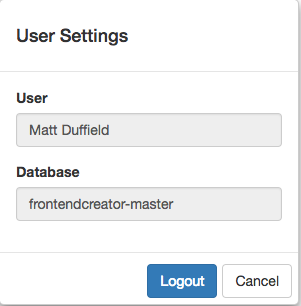
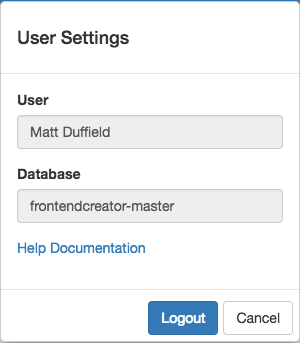
Updated documentation to reflect UI changes.

diff --git a/Home.md b/Home.md
@@ -2,7 +2,7 @@
 
 Building applications with Aurelia has never been so much fun and the **FrontEnd Creator** makes it even more enjoyable. The tool allows you to group your applications into projects. Within each project you have multiple screens. You are able to drag and drop standard HTML elements as well as custom elements onto the designer surface. You can then configure properties of a selected element using the dynamic property grid. 
 
-![Designer](images/designer-home.png)
+![Designer](wiki/images/designer-home.png)
 
 Everything is saved as JSON and you have the ability to live preview your changes immediately as well as share links for a given screen with co-workers or clients so that they can interact with your design.
 
@@ -10,29 +10,25 @@ Everything is saved as JSON and you have the ability to live preview your change
 
 The following animation shows how little work it takes to rapidly create a screen and preview it live using **FrontEnd Creator**:
 
-![Designer Animation](images/frontendcreator.gif)
+![Designer Animation](wiki/images/frontendcreator.gif)
 
-You also have the ability to edit the HTML directly and see the changes reflected in the designer tab. Finally, you have the ability to preview your changes everytime you save your work or by launching a separate tab and viewing  your changes alone.
+You also have the ability to edit the HTML directly and see the changes reflected in the designer tab. Finally, you have the ability to preview your changes every time you save your work or by launching a separate tab and viewing  your changes alone.
 
-![Designer Animation](images/frontendcreator-html.gif)
+![Designer Animation](wiki/images/frontendcreator-html.gif)
 
-Currently, FrontEnd Creator supports Twitter Bootstrap 3 for building responsive applications. Support for other frameworks will follow. It also targets Aurelia for markup and databinding but it will be possible to use other targets such as Angular as well.
+## Extensibility
 
-The FrontEnd Creator has been built with extensibility in mind from the ground up. Everything in this application was built using the rendering engine. In fact all screens that make up FrontEnd Creator use the rendering engine as well.
+Currently, **FrontEnd Creator** supports Twitter Bootstrap 3 for building responsive applications. Support for other frameworks will follow. It also targets Aurelia for markup and data-binding but it will be possible to use other targets such as Angular as well.
 
-Take a look at the table of contents to learn more:
+The **FrontEnd Creator** has been built with extensibility in mind from the ground up. Everything in this application was built using the rendering engine. In fact all screens that make up **FrontEnd Creator** use the rendering engine as well.
 
-## Table of Contents
-* [ Login ](login.md)
-* [ Projects ](projects.md)
-* [ Screens ](screens.md)
-* [ Designer ](designer.md)
-* [ Preview ](preview.md)
-* [ Classes, Attributes, and Styles ](classes-attributes-styles.md)
-* [ Data Binding ](data-bind.md)
-* [ DataForm ](data-form.md)
-* [ Composition ](composition.md)
-* [ Notification ](notification.md)
-* [ Custom Elements ](custom-elements.md)
+## Next steps
 
+Currently, **FrontEnd Creator** is in a *closed alpha*. If you are interested in participating and providing feedback, please contact: <support@frontendcreator.com>
+
+Space is limited but you will have full access to the application.
+
+We are striving to make this a first class solution for building web applications.
+
+[ www.frontendcreator.com ](http://www.frontendcreator.com)
 

diff --git a/designer.md b/designer.md
@@ -27,7 +27,7 @@ Here are the capabilities of the header:
 * **Save button** - this will allow you to save your current work.
 * **Preview button** - this will allow you to launch a new browser tab and preview your work. Remember to save so that your changes will be reflected!
 * **Export button** - this will allow you to export the screen as a view (.html) and view-model (.js) file for you to play with outside the tool.
-* **User button** - this will allow you to logout and see the database you are currently connected to.
+* **User button** - this will allow you to logout and see the database you are currently connected to. It also provides a link to help documentation.
 
 ![Designer User Settings dialog](images/designer-user-settings.png)
 
@@ -54,19 +54,35 @@ The following animation shows how you can use the toolbox as well as filter its 
 
 ![Designer toolbox](images/designer-toolbox-filtering.gif)
 
+As you saw in the animation, the search input uses partial name matching as well as tags. The following is a list of existing tags that controls are grouped by:
+
+* flow
+* form
+* image
+* inline
+* input
+* list
+* media
+* phrase
+* sectioning
+* table
+* text
+ 
 To add an element on to the designer surface, simply click and drag the element from the toolbox onto the designer surface.
 
 ![Designer toolbox](images/designer-drag-drop.gif)
 
 ### Components
 
-The components provides a list of all of the screens that you have authored for this project. This list is exactly the same as the list on the Project Screens screen. It is available here to allow you to compose hybrid screens by adding them to the designer surface. This promotes component reuse and allows you to mitigate redundancies as much as possible.
+The components provides a list of all of the screens that you have authored for this project. This list is exactly the same as the list on the Project Screens screen. It is available here to allow you to compose hybrid screens by adding them to the designer surface. This promotes component reuse and allows you to mitigate redundancies as much as possible. Also, notice that the icon selected when creating the screen will show up here as well.
 
 The following is a screen shot of the components tab:
 
 ![Designer components](images/designer-components.png)
 
-To add a component on to the designer surface, simply click on the plus (+) button.
+To add a component on to the designer surface, simply click and drag the element from the components tab onto the designer surface.
+
+![Designer toolbox](images/designer-components-drag-drop.gif)
 
 ## Right Dock Pane
 
@@ -99,7 +115,7 @@ The screen name is an important property. **FrontEnd Creator** will use it as th
 
 The preview tab allows you to preview your changes live as you work on the designer surface or the HTML tab.
 
-The following is a screen shot of the designer surface after adding a form, form-group, label, and input control:
+The following is a screen shot of the designer surface after adding a form, form-group, label, input element, and button:
 
 ![Designer surface](images/designer-surface.png)
 
@@ -182,4 +198,4 @@ The following is a screen shot of the schema tab:
 
 There will be a whole section dedicated to schema and how to use it in a data-form.
 
-[ <- Previous ](screens.md) | [ Home ](Home.md) | [ Next -> ](preview.md)
+[ <- Previous ](screens) | [ Home ](home) | [ Next -> ](preview)

diff --git a/screens.md b/screens.md
@@ -10,11 +10,11 @@ The following is a screen shot of the add/edit dialog that is displayed when you
 
 ![Add/Edit Screen](images/screen-add-edit.png)
 
-Every screen has a screen name, description, and flag asking whether this is a Data Form. The checkbox allows you to quickly scaffold admin screens by walking the data provided. It also provides for validation and several settings on how to control validation as well as showing a validation summary.
+Every screen has a screen name, description, flag asking whether this is a Data Form, and a screen icon. The icon is used on the designer. Currently the icons you can select from are from FontAwesome. When you select the Data Form checkbox, it allows you to quickly scaffold admin screens by creating a form with inputs corresponding to the data provided. It also provides for validation and several settings on how to control validation as well as showing a validation summary.
 
 ### Note
 The screen name is an important property. **FrontEnd Creator** will use it as the dynamic route when you preview your work. Therefore, it is important to be sure that you have a valid name entry. It is best not to put any spaces or special characters in the name.
 
 Once you have saved your screen addition or modification, you will navigate immediately to the designer screen.
 
-[ <- Previous ](projects.md) | [ Home ](Home.md) | [ Next -> ](designer.md)
+[ <- Previous ](projects) | [ Home ](home) | [ Next -> ](designer)

diff --git a/classes-attributes-styles.md b/classes-attributes-styles.md
@@ -4,11 +4,15 @@ The property grid tries to provide a quick means for modifying classes and attri
 
 ## Classes
 
-The Classes section is used to add and remove classes from a given element. You must click on the blue apply button to apply your changes to the element. 
+The Classes section is used to add and remove classes from a given element. You can either click in the control for a dropdown to appear or you can type a class in the input element. If you use the dropdown and select an element, you must click on the blue apply button to apply your changes to the element. Otherwise, you can simply hit enter in the input element to add the class directly to the selected element in the designer.
 
 The following is a screen shot of the classes section:
 
 ![Designer Property Grid Classes](images/designer-property-grid-classes.png)
+
+This is a screen shot of the dropdown for selecting an existing class. The contents of the dropdown corresponds to the CSS library selected:
+
+![Designer Property Grid Classes](images/designer-property-grid-classes-dropdown.png)
 
 
 ### Attributes
@@ -30,4 +34,4 @@ The following is a screen shot of the styles section:
 
 ![Designer Property Grid Styles](images/designer-property-grid-styles.png)
 
-[ <- Previous ](preview.md) | [ Home ](Home.md) | [ Next -> ](data-bind.md)
+[ <- Previous ](preview) | [ Home ](home) | [ Next -> ](data-bind)

diff --git a/login.md b/login.md
@@ -3,7 +3,7 @@
 The following are the steps to login and start using the application.
 
 ## User Account
-In order to use the application, you will need an account. Every user will have a profile associated with it that will determine your permissions within the application. The same security infrascture that is in place in the application is available for the applications that you create.
+In order to use the application, you will need an account. Every user will have a profile associated with it that will determine your permissions within the application. The same security infrastructure that is in place in the application is available for the applications that you create.
 
 ## Logging In
 You will need a username and password. Please contact <support@frontendcreator.com> to request a username and password. 
@@ -26,4 +26,4 @@ It is possible to log out at any time after you have authenticated. Every screen
 
 It is from this dialog that you can log out. You will also be able to verify the database and launch help documentation.
 
-[ <- Previous ](README.md) | [ Next -> ](projects.md)
+[ <- Previous ](home) | [ Next -> ](projects)

diff --git a/projects.md b/projects.md
@@ -10,8 +10,8 @@ The following is a screen shot of the add/edit dialog that is displayed when you
 
 ![Add/Edit Project screen](images/project-add-edit.png)
 
-Every project has a project name, description, and front end target. Currently Aurelia is the only supported target we will be adding more targets in the future. Bootstrap is currently the only officially supported CSS framework but this will also change in the future as well.
+Every project has a project name, description, and front end target. Currently Aurelia is the only supported target we will be adding more targets in the future. Next, you will select a CSS library, Bootstrap is currently the only officially supported CSS framework but this will also change in the future as well.
 
 Once you click save on a project, you will automatically launch into the Project Screens view.
 
-[ <- Previous ](login.md) | [ Home ](Home.md) | [ Next -> ](screens.md)
+[ <- Previous ](login) | [ Home ](home) | [ Next -> ](screens)

diff --git a/data-form.md b/data-form.md
@@ -10,7 +10,7 @@ Here is a screen shot of the Schema tab:
 
 ![DataFrom Schema](images/designer-schema.png)
 
-You can learn more about using the Validator [ here ](validator/validator.md).
+You can learn more about using the Validator [ here ](validator/validator).
 
 Here is a screen shot of the Data tab:
 
@@ -29,6 +29,6 @@ The data-form has the following attributes:
 * **validate-on-blur** - You can set this to `true` so that validation will occur on blur.
 * **schema** - You bind this attribute to your underlying schema object.
 
-**Remember** You can learn more about using the [ Validator here ](validator/validator.md).
+**Remember** You can learn more about using the [ Validator here ](validator/validator).
 
-[ <- Previous ](data-bind.md) | [ Home ](Home.md) | [ Validator ](validator/validator.md) | [ Next -> ](composition.md)
+[ <- Previous ](data-bind) | [ Home ](home) | [ Validator ](validator/validator) | [ Next -> ](composition)

diff --git a/preview.md b/preview.md
@@ -1,10 +1,13 @@
 # Preview
 
-The Preview screen allows you to test screens that you have created. It also allows you to send the link for a given screen to a user to review and test the screen without authenticating.
+The Preview screen allows you to test screens that you have created. This enables you to send a link for a given screen to a client/user to review and test the screen without authenticating. 
+
+##Note
+You must save any changes in order for them to be reflected in the Preview window.
 
 The following animation demonstrates launching a new browser tab to preview:
 
 ![Designer live preview](images/designer-live-preview.gif)
 
-[ <- Previous ](designer.md) | [ Home ](Home.md) | [ Next -> ](classes-attributes-styles.md)
+[ <- Previous ](designer) | [ Home ](home) | [ Next -> ](classes-attributes-styles)
 

diff --git a/introduction.md b/introduction.md
@@ -22,7 +22,7 @@ Currently, the **FrontEnd Creator** is in a *closed alpha*. If you are intereste
 
 Space is limited but you will have full access to the application.
 
-For more information and documentation on using the application, please go here: [ Documentation ](https://bitbucket.org/matt.duffield/frontendcreator/wiki/Home)
+For more information and documentation on using the application, please go here: [ Documentation ](https://github.com/mattduffield/frontendcreator/wiki)
 
 We are striving to make this a first class solution for building web applications.
 

diff --git a/composition.md b/composition.md
@@ -4,4 +4,4 @@ One thing that makes the FrontEnd Creator powerful is the ability to compose scr
 
 This provides for great reuse and flexibility. You will be able to create menu or navigation components that can be reused across all of your screens.
 
-[ <- Previous ](data-form.md) | [ Home ](Home.md) | [ Next -> ](notification.md)
+[ <- Previous ](data-form) | [ Home ](home) | [ Next -> ](notification)

diff --git a/_Sidebar.md b/_Sidebar.md
@@ -1,0 +1,13 @@
+## Table of Contents
+* [ Home ](home)
+* [ Login ](login)
+* [ Projects ](projects)
+* [ Screens ](screens)
+* [ Designer ](designer)
+* [ Preview ](preview)
+* [ Classes, Attributes, and Styles ](classes-attributes-styles)
+* [ Data Binding ](data-bind)
+* [ DataForm ](data-form)
+* [ Composition ](composition)
+* [ Notification ](notification)
+* [ Custom Elements ](custom-elements)

diff --git a/data-bind.md b/data-bind.md
@@ -79,4 +79,4 @@ The following is a screen shot of the events section:
 
 ![Designer Property Grid Events](images/designer-property-grid-events.png)
 
-[ <- Previous ](classes-attributes-styles.md) | [ Home ](Home.md) | [ Next -> ](data-form.md)
+[ <- Previous ](classes-attributes-styles) | [ Home ](home) | [ Next -> ](data-form)
